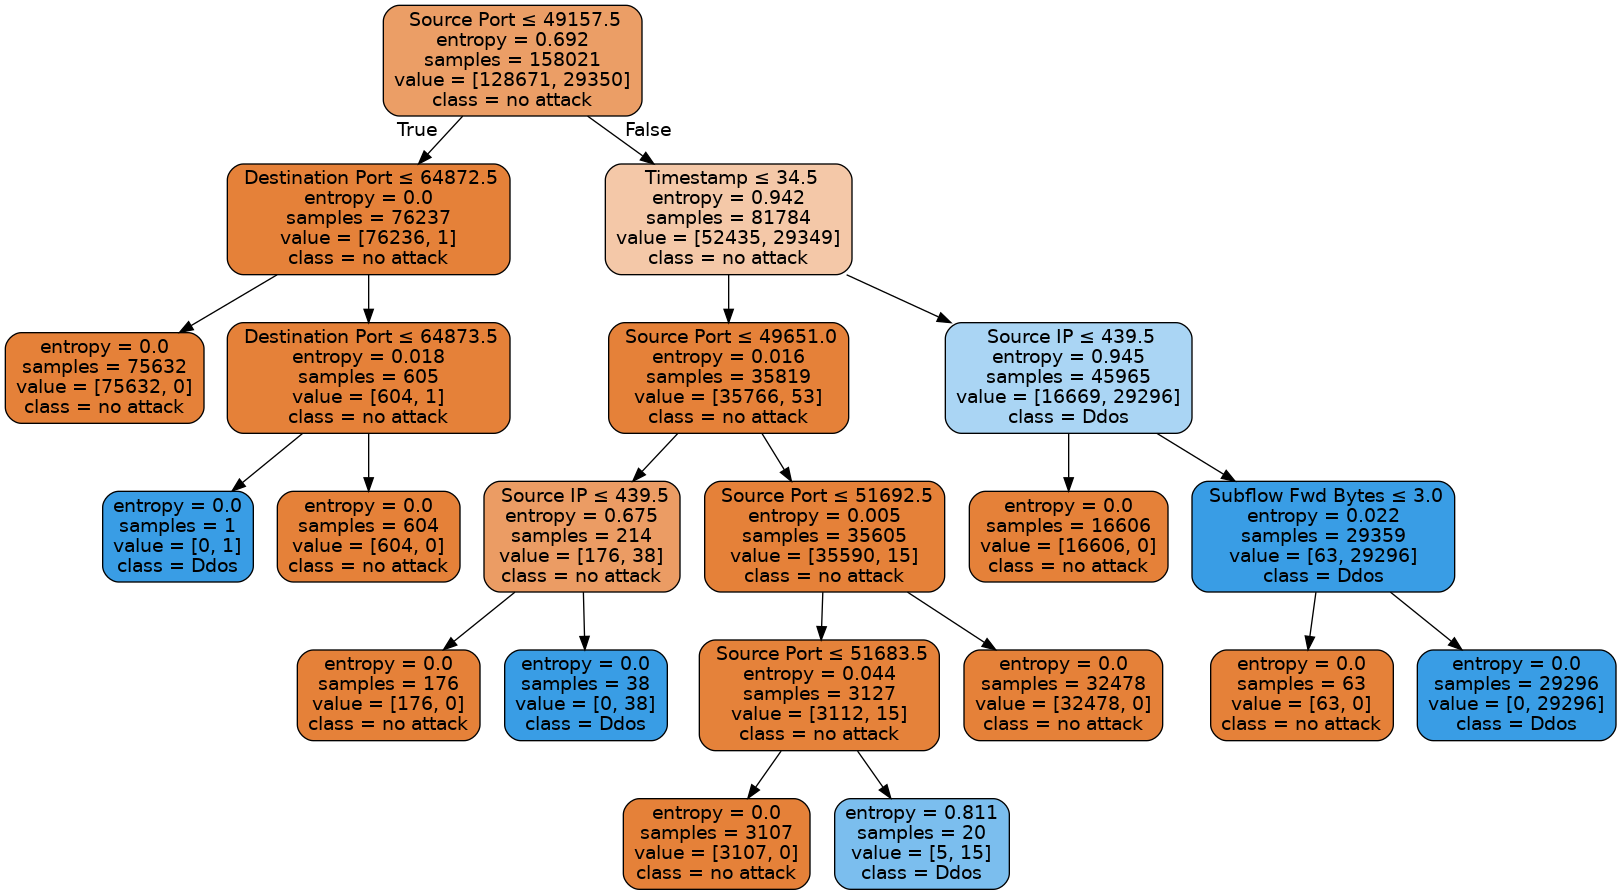
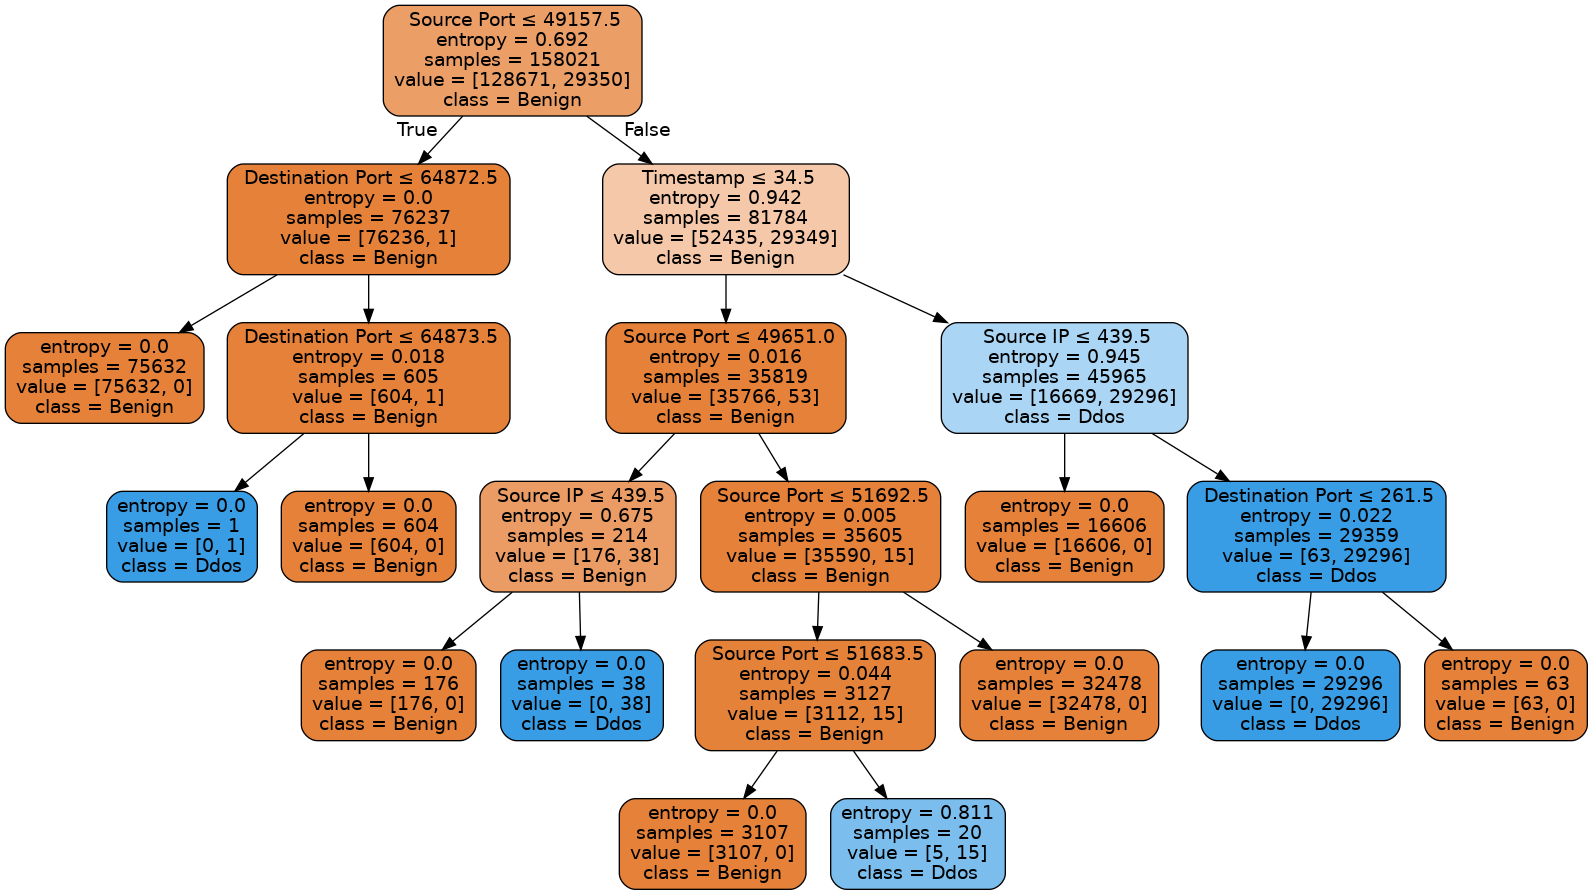
fix

diff --git a/load/Minning.py b/load/Minning.py
@@ -52,6 +52,7 @@ def main():
     # Create Decision Tree classifer object
     clf = DecisionTreeClassifier(criterion="gini", max_depth=5)
 
+    
     # Train Decision Tree Classifer
     clf = clf.fit(X_train,y_train)
 
@@ -63,7 +64,7 @@ def main():
     dot_data = StringIO()
     export_graphviz(clf, out_file=dot_data,  
                     filled=True, rounded=True,
-                    special_characters=True,feature_names = pima.columns,class_names=['no attack','Ddos'])
+                    special_characters=True,feature_names = pima.columns,class_names=['Benign','Ddos'])
     graph = pydotplus.graph_from_dot_data(dot_data.getvalue())  
     graph.write_png('DM_gini.png')
     Image(graph.create_png())
@@ -81,7 +82,7 @@ def main():
     dot_data = StringIO()
     export_graphviz(clf, out_file=dot_data,  
                     filled=True, rounded=True,
-                    special_characters=True,feature_names = pima.columns,class_names=['no attack','Ddos'])
+                    special_characters=True,feature_names = pima.columns,class_names=['Benign','Ddos'])
     graph = pydotplus.graph_from_dot_data(dot_data.getvalue())  
     graph.write_png('DM_entropy.png')
     Image(graph.create_png())
